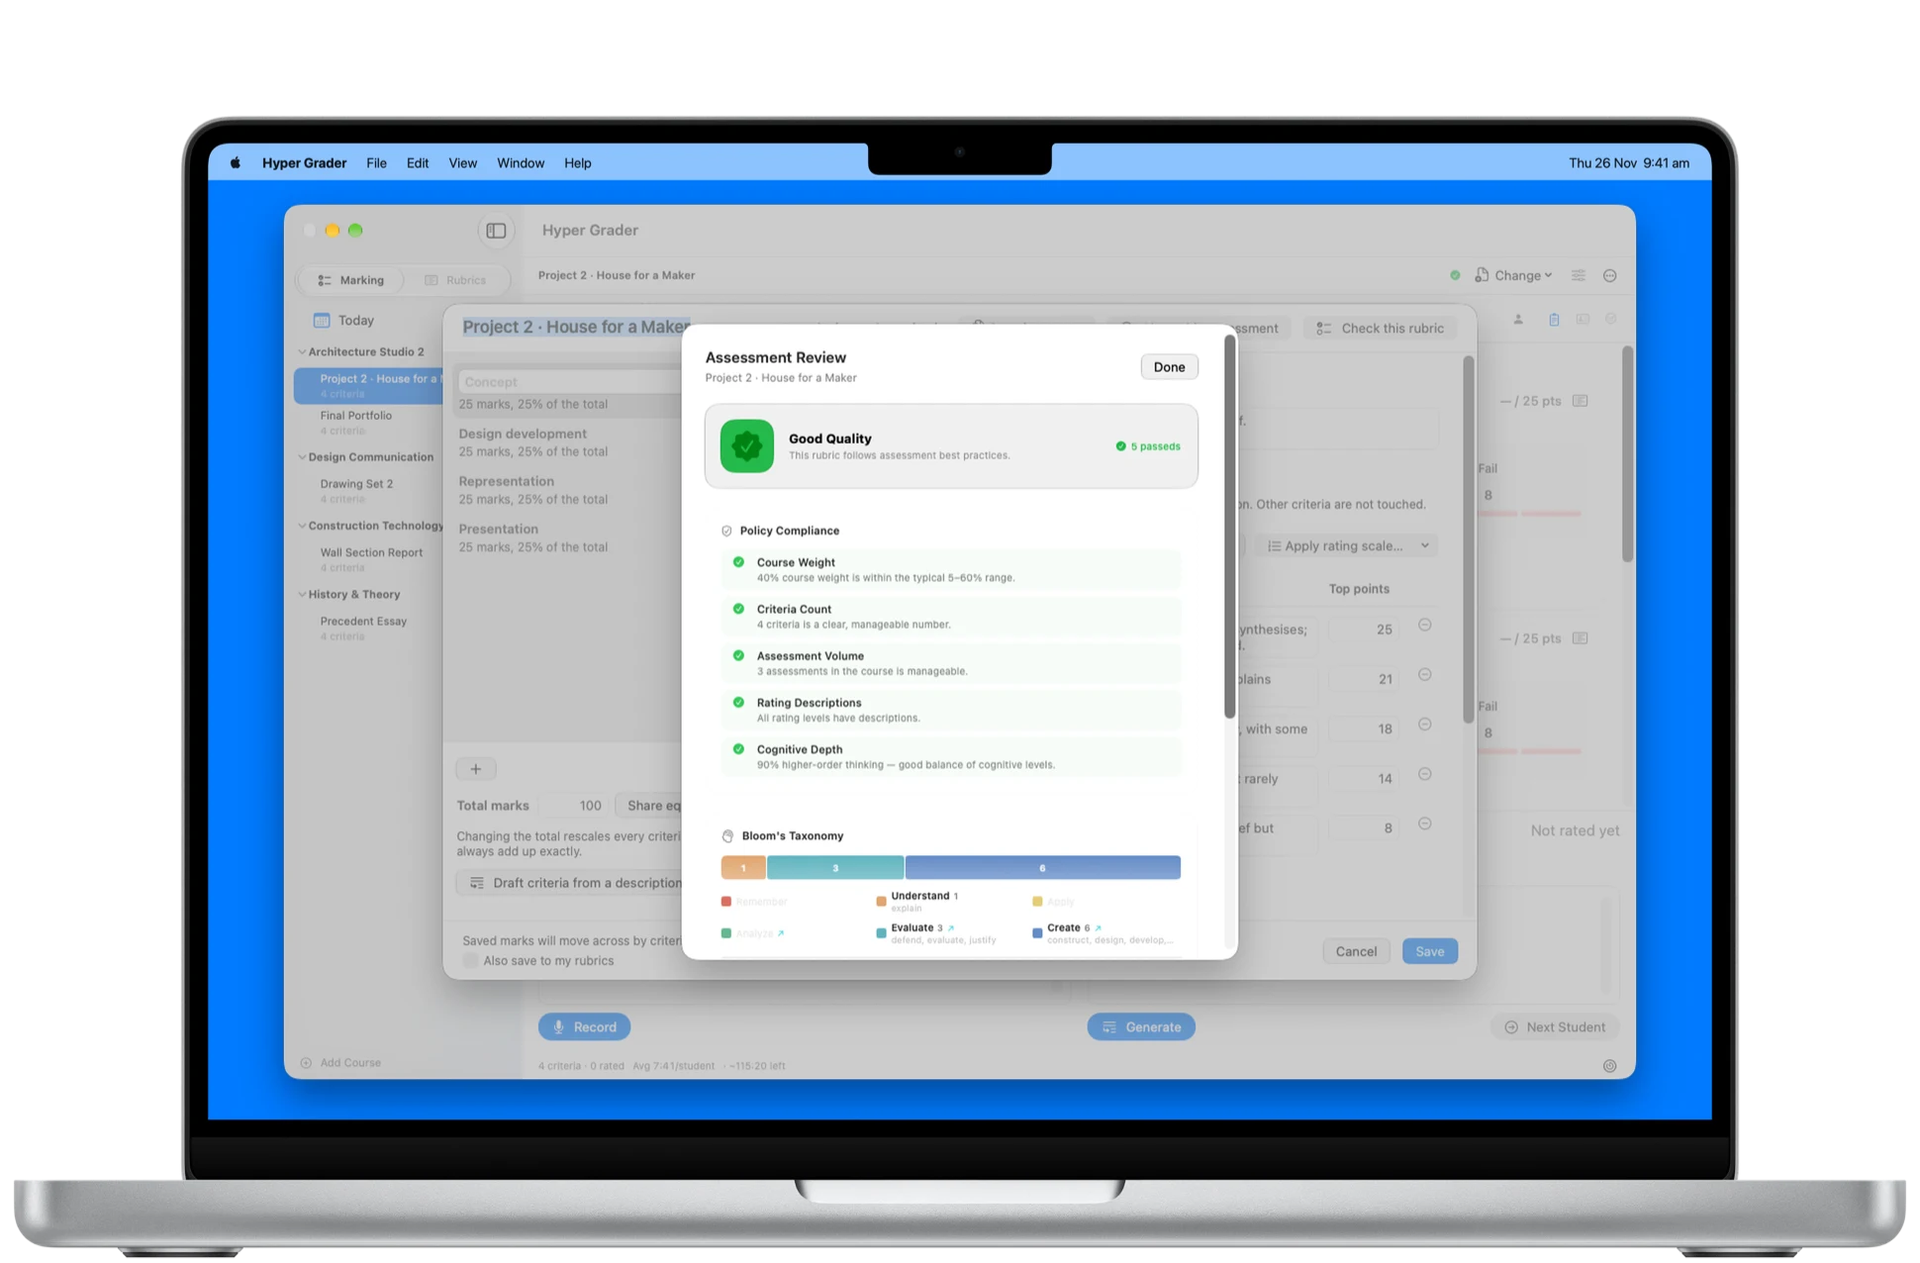
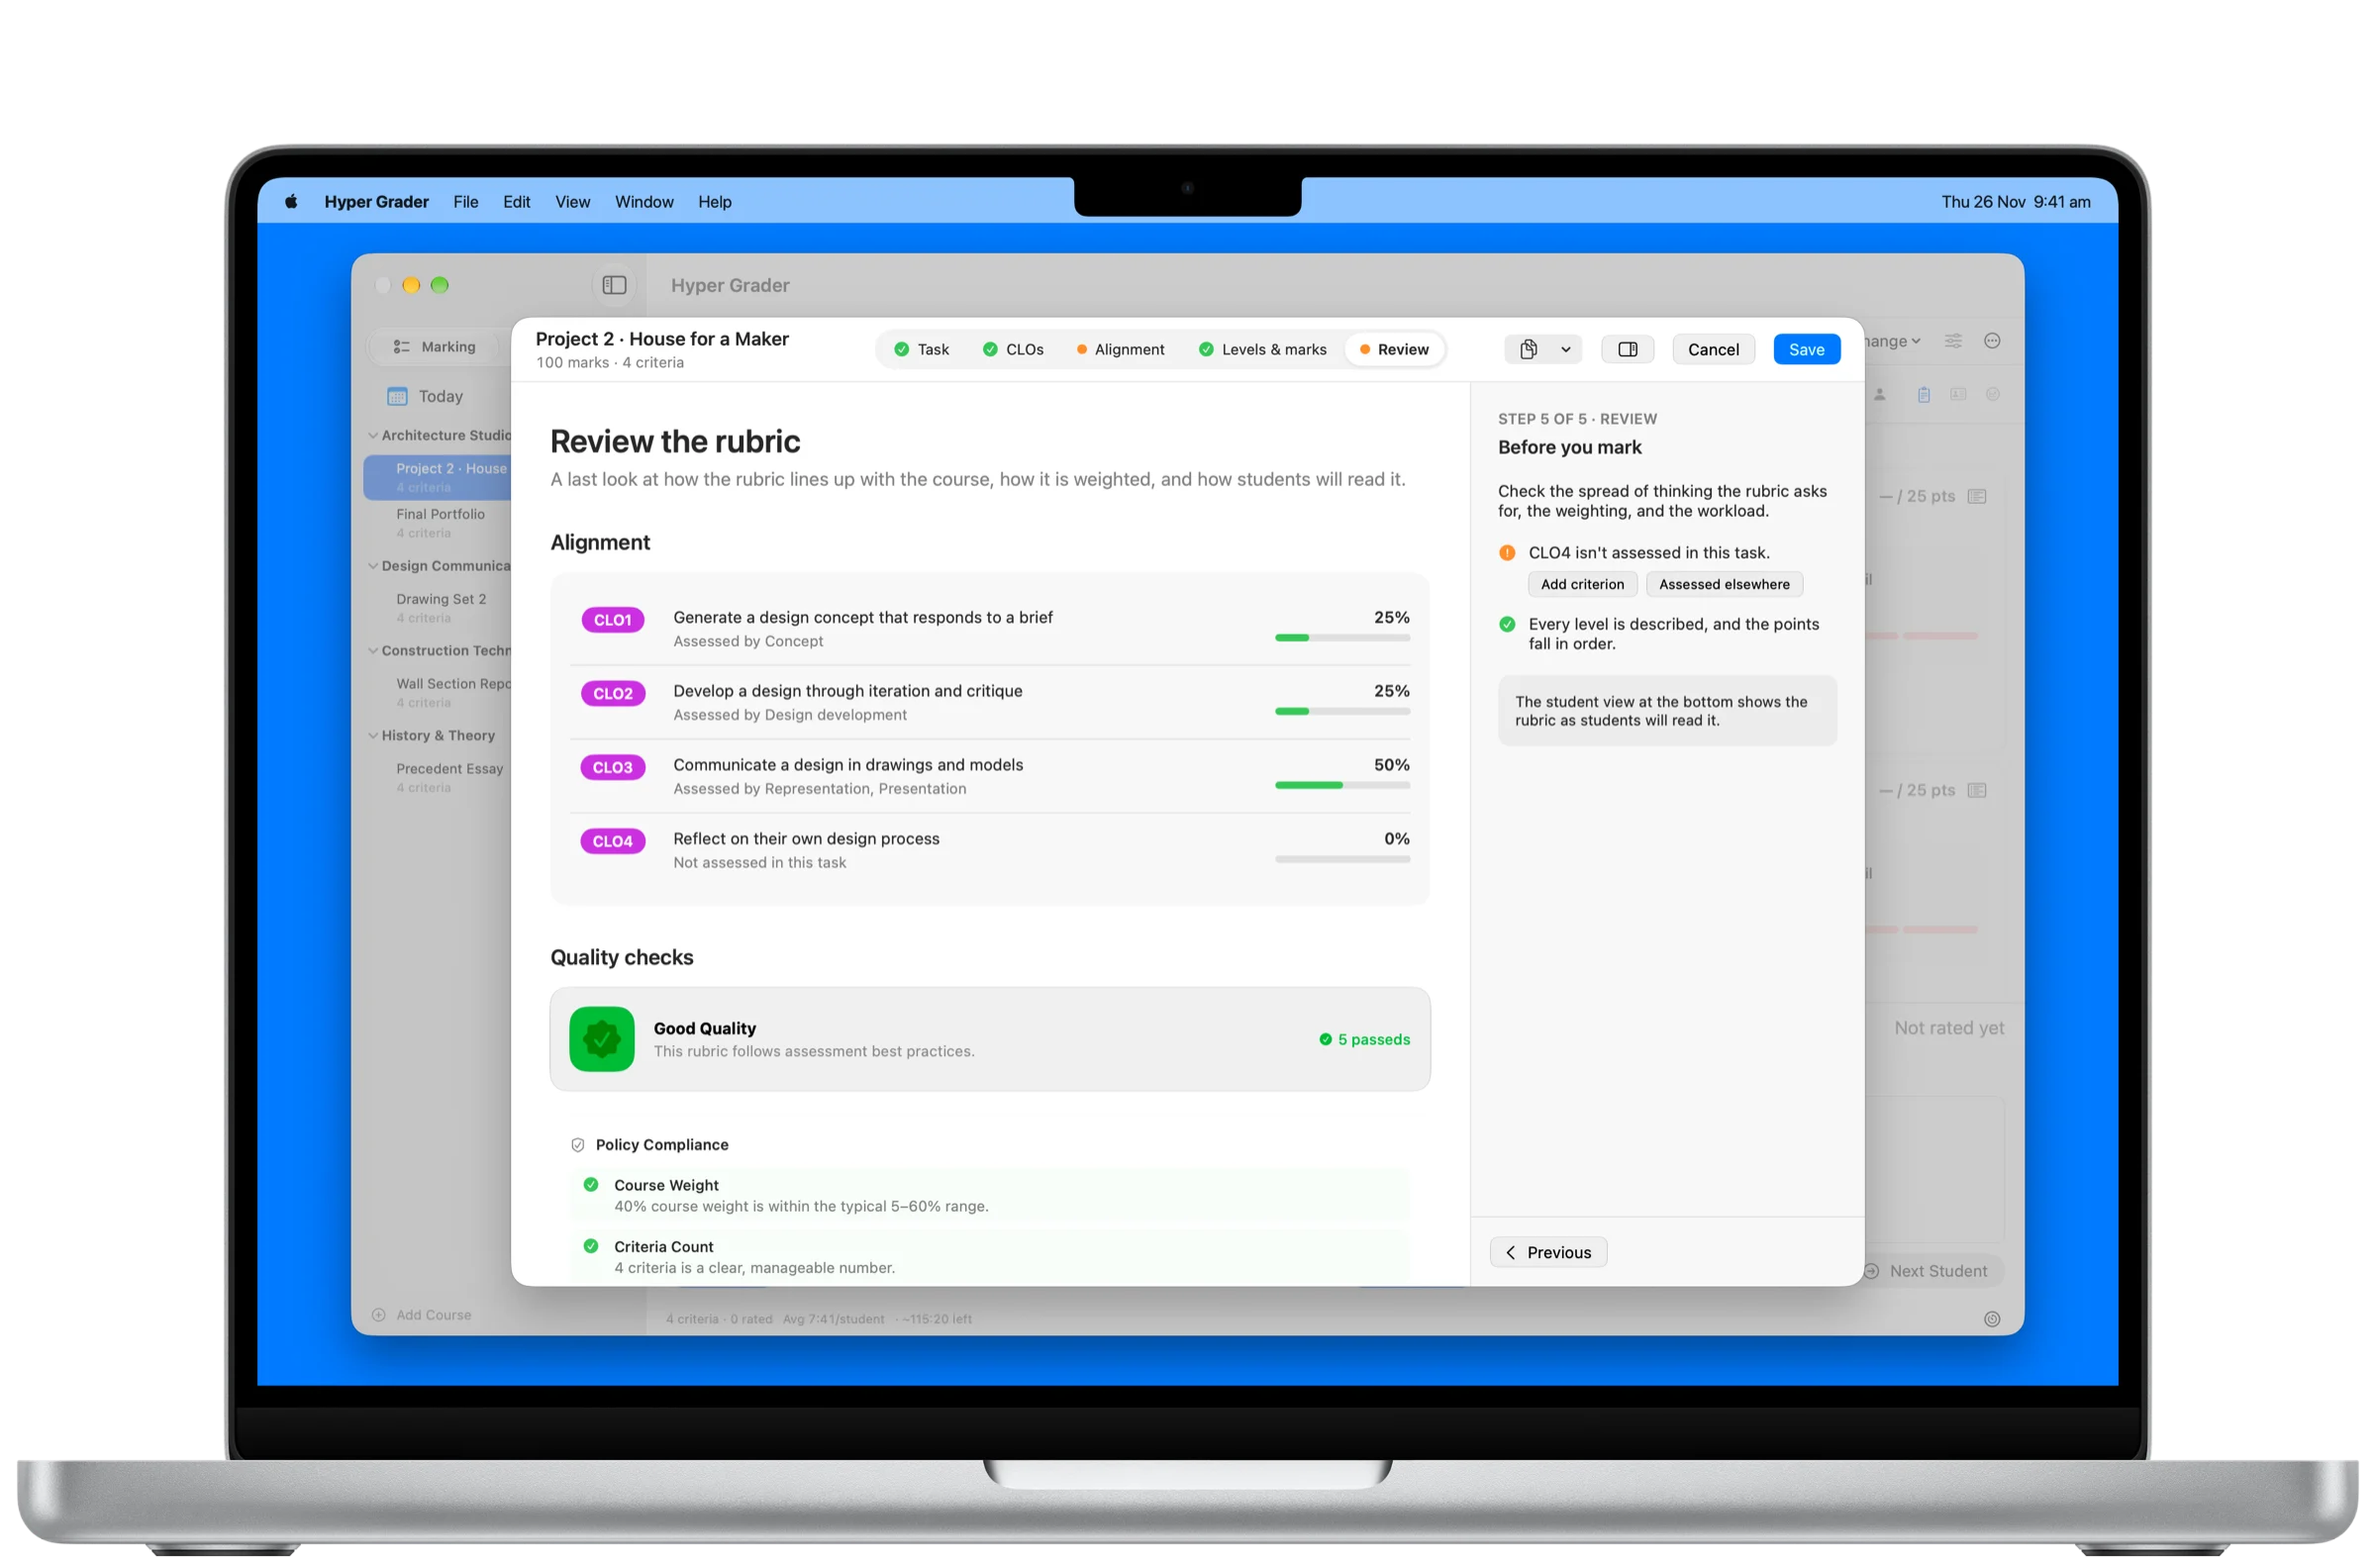
Rubric sections: the new guided builder (Alignment and Review steps), CLO mapping in the copy

diff --git a/index.html b/index.html
@@ -96,11 +96,11 @@
   <div class="copy">
     <p class="label">rubrics</p>
     <h2>the rubric builder</h2>
-    <p>It starts where constructive alignment starts: with what students should be able to show. Describe the task and Hyper Grader drafts criteria for you to keep, change or throw out.</p>
-    <p>Every criterion gets a descriptor for each grade band, from High Distinction to Fail, so the rubric is criterion-referenced before you mark a single piece of work. Set the marks and the levels scale with them.</p>
+    <p>It starts where constructive alignment starts: with your course. Paste the course objectives and learning outcomes from your outline, then map each criterion to the CLOs it assesses. The grid shows how much of the task's marks goes to each CLO, and flags any outcome the rubric doesn't reach.</p>
+    <p>Then every criterion gets a descriptor for each grade band, from High Distinction to Fail, so the rubric is criterion-referenced before you mark a single piece of work. A guide beside each step explains what makes it good and offers fixes as you go.</p>
   </div>
   <figure class="device">
-    <img src="images/mac-rubric-editor.webp" width="1940" height="1276" loading="lazy" alt="The rubric editor: four criteria on the left; for Concept, a description and a descriptor and mark for each level from High Distinction to Fail.">
+    <img src="images/mac-rubric-alignment.webp" width="2400" height="1579" loading="lazy" alt="The rubric builder's Alignment step: course objectives and four CLOs above a grid of criteria ticked against the CLOs they assess, with each CLO's share of the marks, and a guide panel flagging that CLO4 isn't assessed in this task.">
   </figure>
 </section>
 
@@ -108,11 +108,11 @@
   <div class="copy">
     <p class="label">assessment review</p>
     <h2>the assessment review</h2>
-    <p>Check this rubric shows the spread of Bloom's taxonomy levels your criteria ask for, so you can see whether students are being asked to create and evaluate or only to remember.</p>
+    <p>The last step brings it together: how the rubric covers each CLO, and the spread of Bloom's taxonomy levels your criteria ask for, so you can see whether students are being asked to create and evaluate or only to remember.</p>
     <p>It flags levels without a descriptor and uneven weighting, estimates student hours against a workload guideline, and checks common assessment policy: course weight between 5 and 60%, three to six criteria, group work at no more than 30%, and hurdle requirements.</p>
   </div>
   <figure class="device">
-    <img src="images/mac-rubric-review.webp" width="1940" height="1276" loading="lazy" alt="The assessment review over the rubric editor: policy checks passed for course weight, criteria count, assessment volume, rating descriptions and cognitive depth, and a Bloom's taxonomy bar weighted towards Evaluate and Create.">
+    <img src="images/mac-rubric-review.webp" width="2400" height="1579" loading="lazy" alt="The rubric builder's Review step: each CLO with its share of the marks and the criteria assessing it, then the quality checks, with a guide panel of remaining fixes.">
   </figure>
 </section>
 
